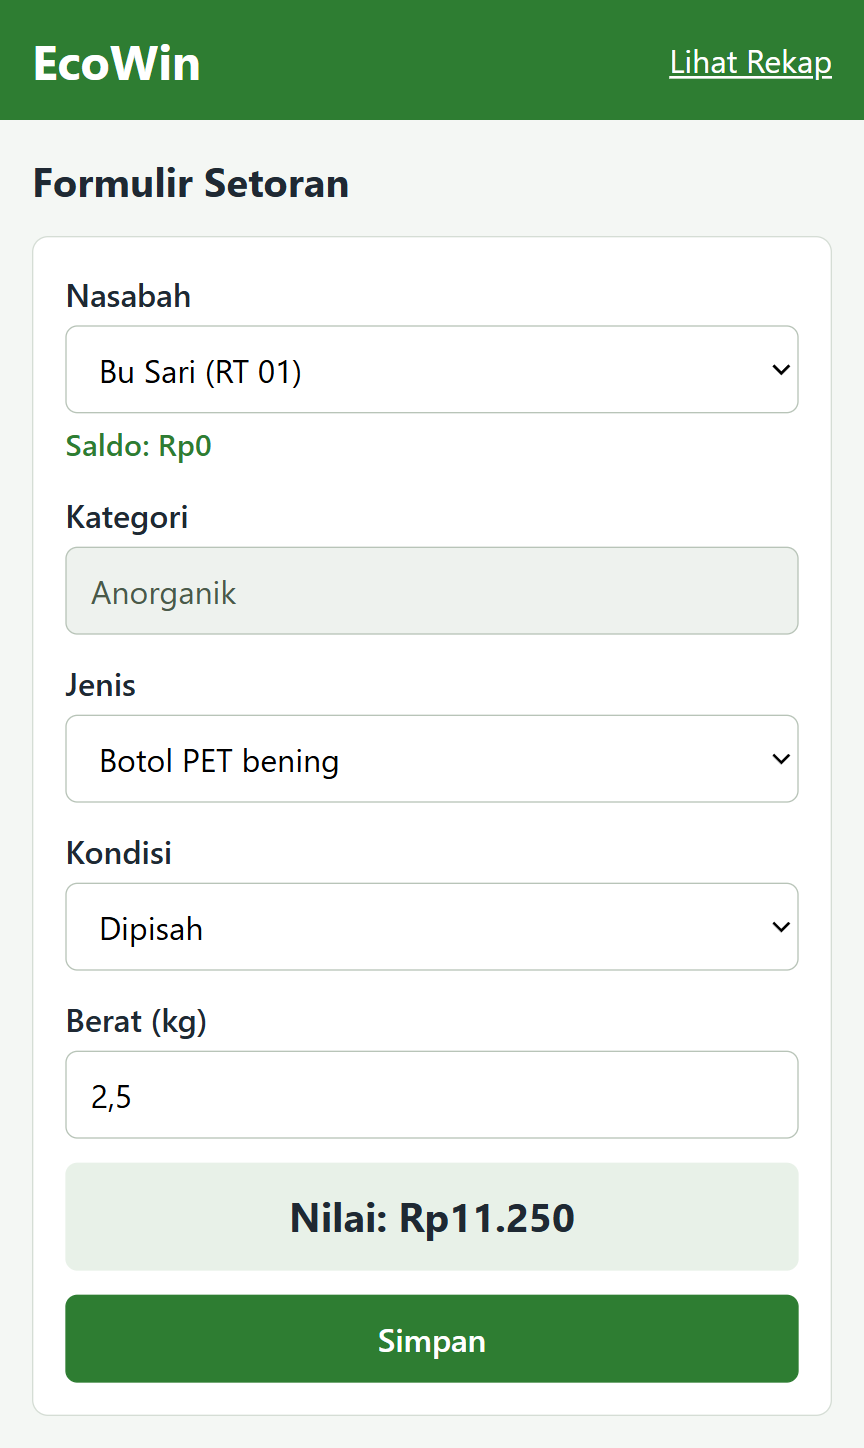
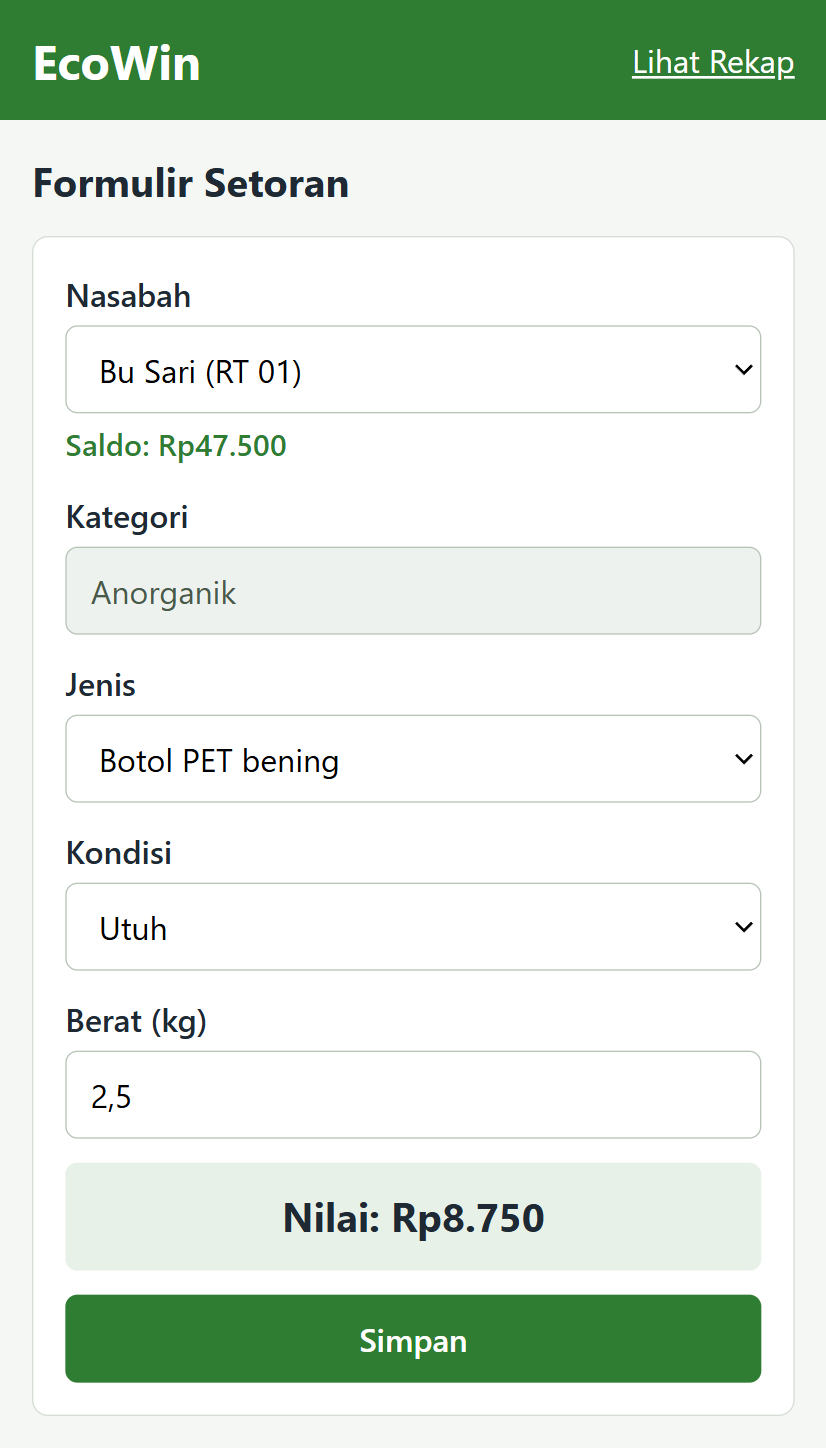
dokumen: isi hasil uji U15 dan U16

diff --git a/docs/04-kasus-uji.md b/docs/04-kasus-uji.md
@@ -7,22 +7,22 @@ Hasil yang diharapkan U01–U06 dan U14 sudah dihitung ulang tim dengan kalkulat
 
 | ID | Kriteria yang diuji | Langkah / input | Hasil yang diharapkan | Hasil sebenarnya | Lulus? | Bukti (nama file tangkapan layar) |
 |---|---|---|---|---|---|---|
-| U01 | Nilai sesuai jenis dan kondisi | Botol PET bening, Dipisah, 2,5 kg | 4.500 × 2,5 = Rp11.250 | Nilai Rp11.250 | Iya | U01.png |
-| U02 | Kondisi memengaruhi harga | Botol PET bening, Utuh, 2,5 kg | 3.500 × 2,5 = Rp8.750 (lebih rendah dari U01) | Nilai Rp8.750 | Iya | U02.png |
-| U03 | Pembulatan 0,5 ke atas | Kardus, Kering, 0,33 kg | 1.950 × 0,33 = 643,5 → Rp644 | Nilai Rp644 | Iya | U03.png |
-| U04 | Pembulatan 0,5 ke atas (kondisi lain) | Kardus, Basah, 0,33 kg | 750 × 0,33 = 247,5 → Rp248 | Nilai Rp248 | Iya | U04.png |
-| U05 | **Batas bawah** berat diterima | Kaleng aluminium, Dipenyet, 0,1 kg | 12.000 × 0,1 = Rp1.200, tersimpan | Nilai Rp1.200 | Iya | U05.png |
-| U06 | **Batas atas** berat diterima | Botol PET bening, Dipisah, 100 kg | 4.500 × 100 = Rp450.000, tersimpan | Nilai Rp450.000 | Iya | U06.png |
-| U07 | **Di bawah batas** ditolak | Berat 0,09 kg | Ditolak, pesan kesalahan berat; tidak tersimpan | Pesan merah di bawah berat | Iya | U07.png |
-| U08 | **Di atas batas** ditolak | Berat 100,01 kg | Ditolak, pesan kesalahan berat; tidak tersimpan | Pesan merah | Iya | U08.png |
-| U09 | **Input salah**: nol dan negatif | Berat 0, lalu berat −2 | Keduanya ditolak dengan pesan yang jelas | Pesan merah, 2 foto | Iya | U09-a.png, U09-b.png |
-| U10 | **Input salah**: kosong dan huruf | Berat dikosongkan, lalu berat "abc" | Keduanya ditolak dengan pesan yang jelas | Pesan merah, 2 foto | Iya | U10-a.png, U10-b.png |
-| U11 | **Input salah**: lebih dari 2 desimal | Berat 1,234 kg | Ditolak, pesan maksimal 2 angka desimal | Pesan "maksimal 2 angka..." | | |
-| U12 | Pilihan wajib diisi | Nasabah belum dipilih; kemudian jenis atau kondisi belum dipilih | Ditolak dengan pesan pilihan wajib; tidak tersimpan | Pesan wajib dipilih, 2 foto | Iya | U12-a.png, U12-b.png |
-| U13 | Pemisah desimal koma dan titik | Berat "2,5" dan berat "2.5" (jenis sama) | Keduanya dianggap 2,5 kg dan bernilai sama | Nilai sama, 2 foto | Iya | U13-a.png, U13-b.png |
-| U14 | Saldo bertambah | Bu Sari (saldo Rp0) menyetor U01 lalu U02 | Saldo Rp11.250, lalu Rp20.000 | Saldo berhasil ditambahkan | Iya | U14.png |
-| U15 | Data tetap ada setelah reload | Simpan setoran U01, muat ulang halaman | Setoran U01 tetap ada di rekap, dan saldo Bu Sari tetap Rp11.250 saat dipilih di formulir | | | |
-| U16 | Rekap menampilkan semua kolom | Buka halaman rekap setelah U01 dan U02 | Tampil 2 baris dengan kolom tanggal, nasabah, kategori, jenis, kondisi, berat, nilai | | | |
+| U01 | Nilai sesuai jenis dan kondisi | Botol PET bening, Dipisah, 2,5 kg | 4.500 × 2,5 = Rp11.250 | Nilai Rp11.250 | Ya | U01.png |
+| U02 | Kondisi memengaruhi harga | Botol PET bening, Utuh, 2,5 kg | 3.500 × 2,5 = Rp8.750 (lebih rendah dari U01) | Nilai Rp8.750 | Ya | U02.png |
+| U03 | Pembulatan 0,5 ke atas | Kardus, Kering, 0,33 kg | 1.950 × 0,33 = 643,5 → Rp644 | Nilai Rp644 | Ya | U03.png |
+| U04 | Pembulatan 0,5 ke atas (kondisi lain) | Kardus, Basah, 0,33 kg | 750 × 0,33 = 247,5 → Rp248 | Nilai Rp248 | Ya | U04.png |
+| U05 | **Batas bawah** berat diterima | Kaleng aluminium, Dipenyet, 0,1 kg | 12.000 × 0,1 = Rp1.200, tersimpan | Nilai Rp1.200 | Ya | U05.png |
+| U06 | **Batas atas** berat diterima | Botol PET bening, Dipisah, 100 kg | 4.500 × 100 = Rp450.000, tersimpan | Nilai Rp450.000 | Ya | U06.png |
+| U07 | **Di bawah batas** ditolak | Berat 0,09 kg | Ditolak, pesan kesalahan berat; tidak tersimpan | Pesan merah di bawah berat | Ya | U07.png |
+| U08 | **Di atas batas** ditolak | Berat 100,01 kg | Ditolak, pesan kesalahan berat; tidak tersimpan | Pesan merah | Ya | U08.png |
+| U09 | **Input salah**: nol dan negatif | Berat 0, lalu berat −2 | Keduanya ditolak dengan pesan yang jelas | Pesan merah, 2 foto | Ya | U09-a.png, U09-b.png |
+| U10 | **Input salah**: kosong dan huruf | Berat dikosongkan, lalu berat "abc" | Keduanya ditolak dengan pesan yang jelas | Pesan merah, 2 foto | Ya | U10-a.png, U10-b.png |
+| U11 | **Input salah**: lebih dari 2 desimal | Berat 1,234 kg | Ditolak, pesan maksimal 2 angka desimal | Pesan "maksimal 2 angka..." | YaIya | U11.png |
+| U12 | Pilihan wajib diisi | Nasabah belum dipilih; kemudian jenis atau kondisi belum dipilih | Ditolak dengan pesan pilihan wajib; tidak tersimpan | Pesan wajib dipilih, 2 foto | Ya | U12-a.png, U12-b.png |
+| U13 | Pemisah desimal koma dan titik | Berat "2,5" dan berat "2.5" (jenis sama) | Keduanya dianggap 2,5 kg dan bernilai sama | Nilai sama, 2 foto | Ya | U13-a.png, U13-b.png |
+| U14 | Saldo bertambah | Bu Sari (saldo Rp0) menyetor U01 lalu U02 | Saldo Rp11.250, lalu Rp20.000 | Saldo berhasil ditambahkan | Ya | U14.png |
+| U15 | Data tetap ada setelah reload | Simpan setoran U01, muat ulang halaman | Setoran U01 tetap ada di rekap, dan saldo Bu Sari tetap Rp11.250 saat dipilih di formulir | Setoran tetap ada di rekap  | Ya | U15-a.png, U15-b.png |
+| U16 | Rekap menampilkan semua kolom | Buka halaman rekap setelah U01 dan U02 | Tampil 2 baris dengan kolom tanggal, nasabah, kategori, jenis, kondisi, berat, nilai | Rekap menampilkan 2 baris dengan 7 kolom | Ya | U16-a.png, U16-b.png |
 
 Wajib ada:
 - minimal satu kasus dengan **input yang salah** (kosong, negatif, huruf di kolom angka),

diff --git a/docs/05-kesalahan-ai.md b/docs/05-kesalahan-ai.md
@@ -8,4 +8,3 @@ Ini bukan catatan kegagalan tim. Justru ini bukti bahwa tim memeriksa hasil AI.
 | 1 | Draf spesifikasi dan kasus uji | Kasus uji U15 menulis saldo "tetap ada di rekap", padahal kolom rekap di spesifikasi tidak memuat saldo dan tidak ada yang menyebut saldo ditampilkan di mana | Dicocokkan baris demi baris antara 04-kasus-uji.md dan 01-spesifikasi.md saat meninjau U07 sampai U16 | Tim memutuskan saldo ditampilkan di formulir saat nasabah dipilih, lalu spesifikasi dan U15 disesuaikan |
 | 2 | Panduan perintah Git | AI memberi perintah memakai `&&` yang tidak dikenal PowerShell di komputer tim | Perintah dijalankan dan muncul ParserError: The token '&&' is not a valid statement separator | Perintah dijalankan satu per satu, panduan berikutnya memakai gaya PowerShell |
 | 3 | Mengajari cara push ke GitHub | AI membuat commit sendiri dan menambahkan baris Co-Authored-By ke riwayat, padahal tim hanya meminta diajari | Terlihat di riwayat commit dan dikoreksi langsung oleh tim | Riwayat tidak ditulis ulang karena aturan melarang. Tim memutuskan AI hanya memberi perintah dan tidak menjalankan commit atau push tanpa diminta |
-| 4 | Menyiapkan folder repositori | AI membuat commit di folder yang folder .git-nya ada di folder induk, sehingga README dan .gitignore masuk ke dalam subfolder, bukan di akar repo | Terlihat di GitHub: berkas berada di steampreneur-ecowin-3d/README.md, bukan di akar | Repositori dibuat ulang di folder baru yang bersih dengan README di akar, lalu dipush ke repo yang benar |
